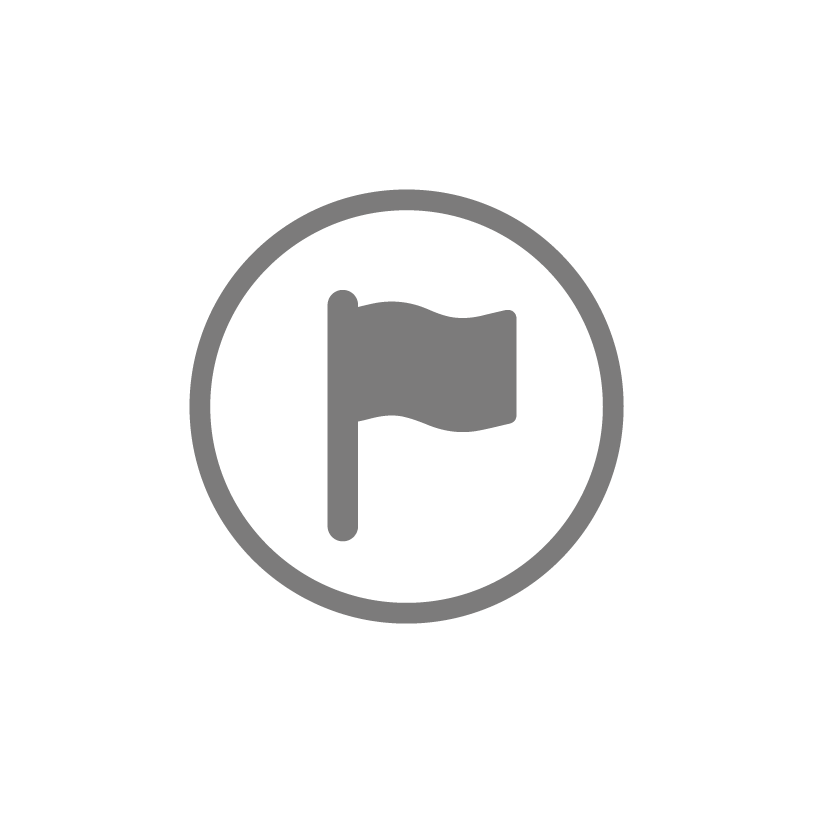
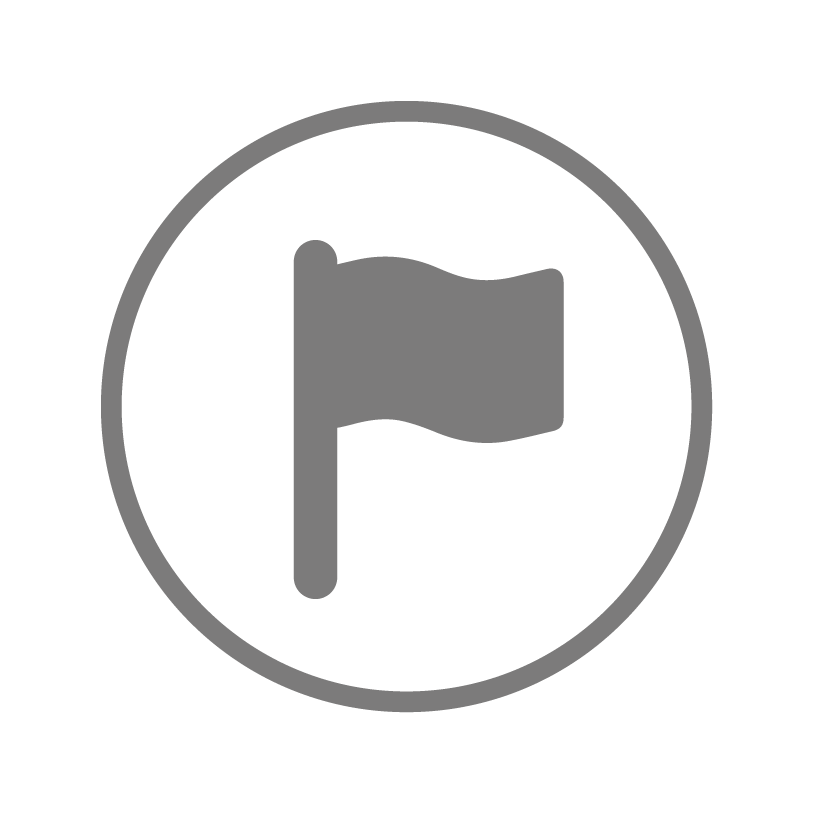
final 1011%

Changed region(s): [[0.215, 0.2153, 0.7678, 0.7688], [0.1229, 0.123, 0.8907, 0.8918], [0.4607, 0.492, 0.5221, 0.5228]]

diff --git a/map_3.html b/map_3.html
@@ -39,7 +39,7 @@
       <div class="checkbox-item" id="id6">
         <input type="checkbox" id="flag">
         <label for="flag">
-          <img src="images/Icons_map3/r1.png" alt="">
+          <img src="images/Icons_map3/G.png" alt="">
           <span>Начало маршрута</span>
         </label>
       </div>
